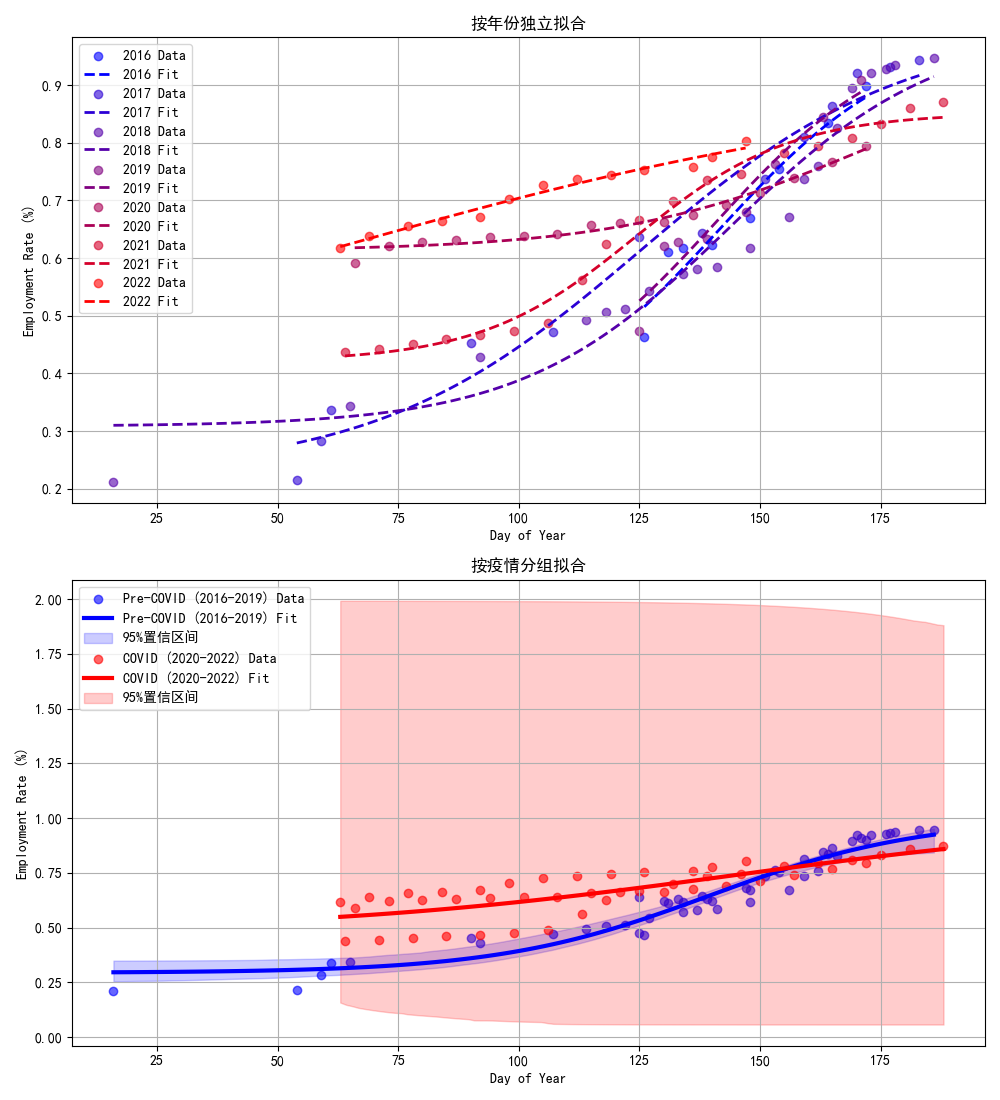
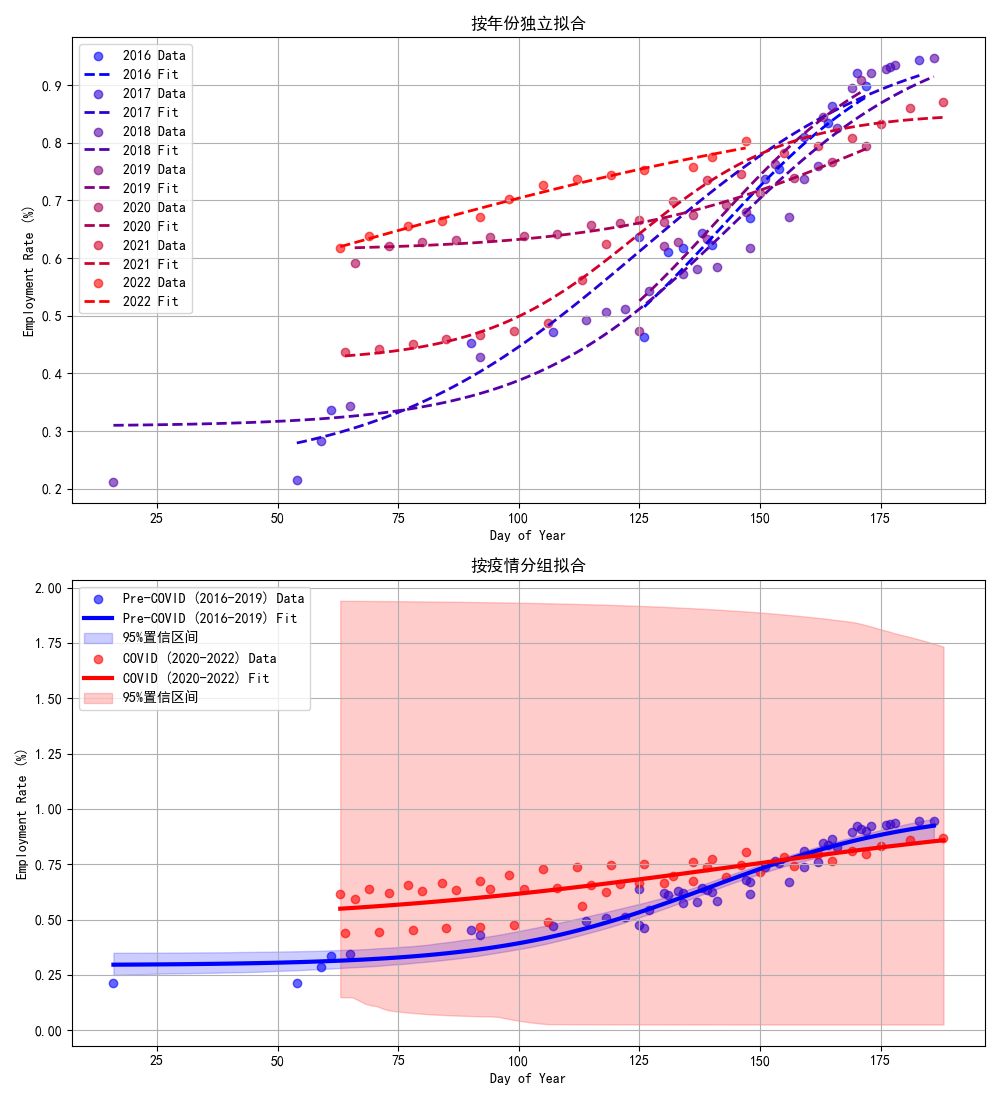
第一问调参结束，不干了

diff --git a/25NKUMCM-C/Q1_Logistic.py b/25NKUMCM-C/Q1_Logistic.py
@@ -125,7 +125,7 @@ def draw_attributes(ddd, params_by_year, subject):
         200,
     ]  # 你可以根据需要调整采样天数
 
-    plt.savefig("./Graphs/" + subject + "采样年际变化.png")
+    plt.savefig("./Graphs/" + subject + "参数年际变化.png")
     plt.figure(figsize=(10, 6))
 
     for target_day in sample_days:
@@ -145,7 +145,7 @@ def draw_attributes(ddd, params_by_year, subject):
     plt.legend()
     plt.grid(True)
     plt.tight_layout()
-    plt.savefig("./Graphs/" + subject + "参数年际变化.png")
+    plt.savefig("./Graphs/" + subject + "采样年际变化.png")
 
 
 def fit_by_group(data):
@@ -423,19 +423,18 @@ def fit_attribute_ARIMR(ddd, target_attribute, numofyear):
     elif target_attribute == "x0":
         model = auto_arima(
             ts_data,
-            seasonal=False,
-            stepwise=False,
+            seasonal=False,  # 启用季节性成分
+            m=4,  # 设置4年周期
+            stepwise=True,
             start_p=1,
             start_q=1,
-            min_p=1,
-            min_q=1,
-            max_p=9,  # 从7提升至9以适应更大波动
-            max_q=9,  # 从7提升至9
+            max_p=5,  # 降低最大p值
+            max_q=5,  # 降低最大q值
             d=1,
             test="adf",
-            information_criterion="bic",
-            trend="ct",
-            max_order=18,  # 从14提升至18
+            information_criterion="aicc",  # 使用AICc准则
+            trend="c",  # 仅保留常数项
+            max_order=10,  # 降低最大阶数
             with_intercept=True,
             suppress_warnings=True,
             error_action="ignore",
@@ -662,9 +661,9 @@ def main():
     plt.rcParams["font.sans-serif"] = ["SimHei"]
     plt.rcParams["axes.unicode_minus"] = False
 
-    # function("本科")
-    # function("硕士")
-    # function("博士")
+    function("本科")
+    function("硕士")
+    function("博士")
     function("整体")
 
 
